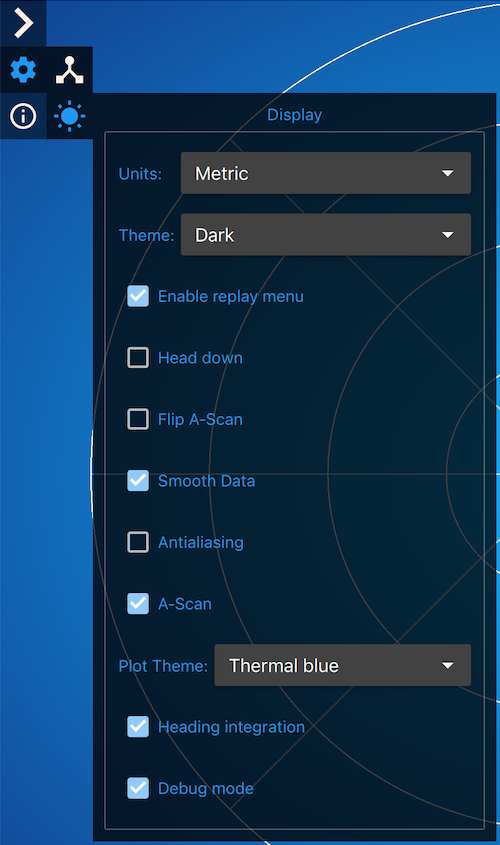
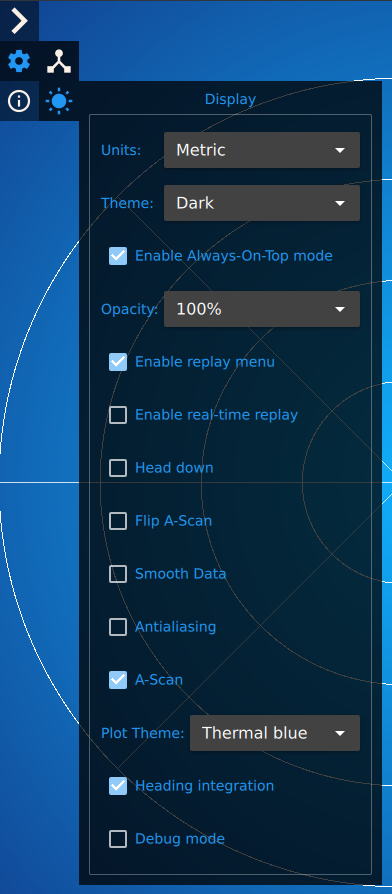
docs: Update display-settings information for ping-viewer 2.2

diff --git a/docs/display-settings.md b/docs/display-settings.md
@@ -3,16 +3,25 @@
 ## Menu Items
 
 - **Units:**
-Select the units (meters or feet) for the application to display
+Select the units (Metric [meters] or Imperial [feets]) for the application to display
 
 - **Theme:**
-Select the application menu theme (light or dark)
+Select the application menu theme (Light or Dark)
+
+- **Enable Always-On-Top mode:**
+The application will be over (in front of) all other windows.
+
+- **Opacity:**
+Select the application opacity. Used to partially view content (e.g. video stream) behind the application window.
 
 - **Enable Replay Menu:**
 Enable the [Replay Menu](replay-data.md)
 
+- **Enable Real-Time Replay:**
+Shows playback as it was recorded (ie what you would see from a screen recording when the data was captured). Sets profile messages to display based on recorded timestamps, instead of using a constant period/update rate.
+
 - **Head Down (Ping360 only):**
-Project the polar scan as though [viewing the seabed](https://bluerobotics.com/learn/understanding-and-using-scanning-sonars/#viewing-the-seabed). 
+Project the polar scan as though [viewing the seabed](https://bluerobotics.com/learn/understanding-and-using-scanning-sonars/#viewing-the-seabed).
 
 - **Flip A-Scan**:
 Flip between furthers/closest ping data at the top of the [Return Plot](index.md#return-plot).
